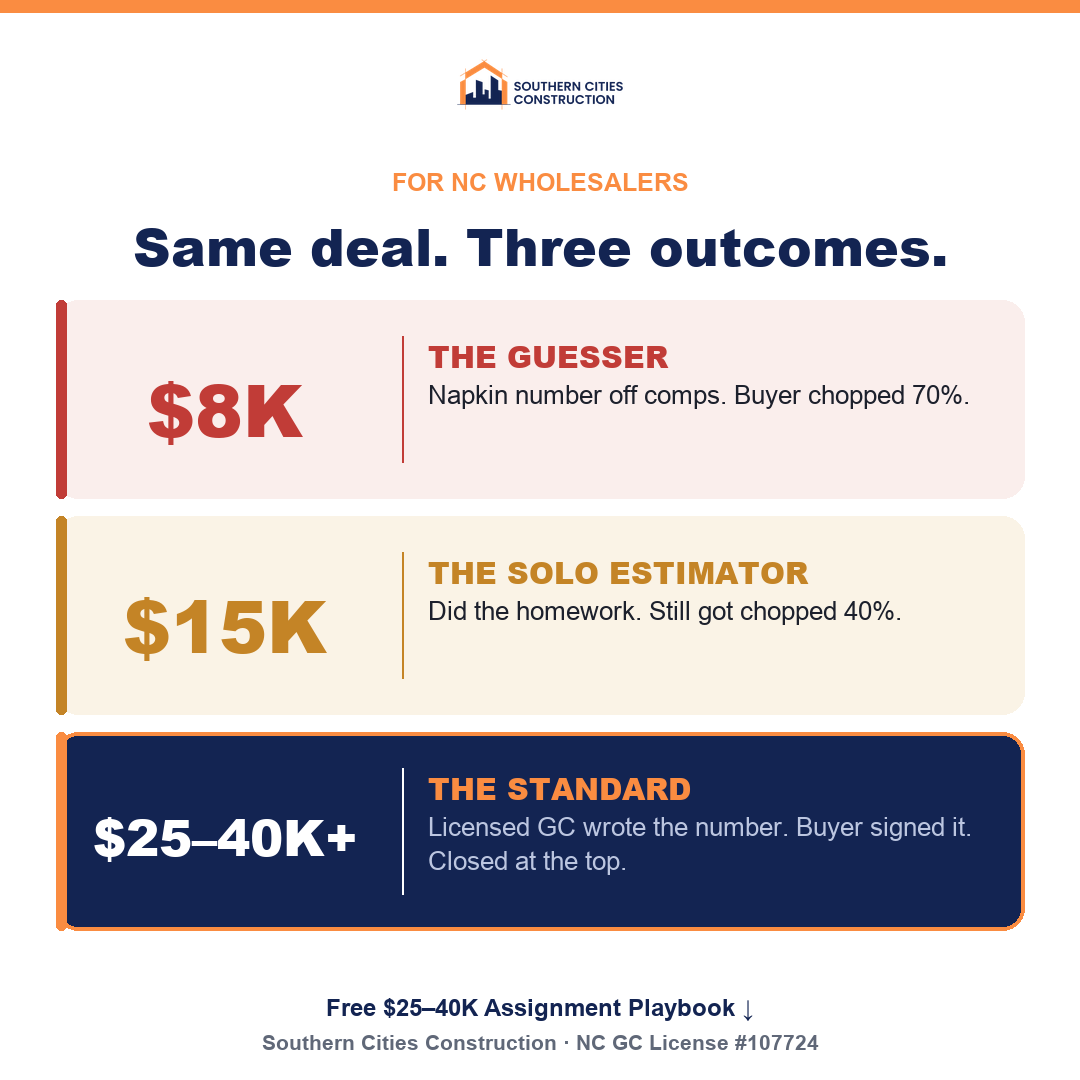
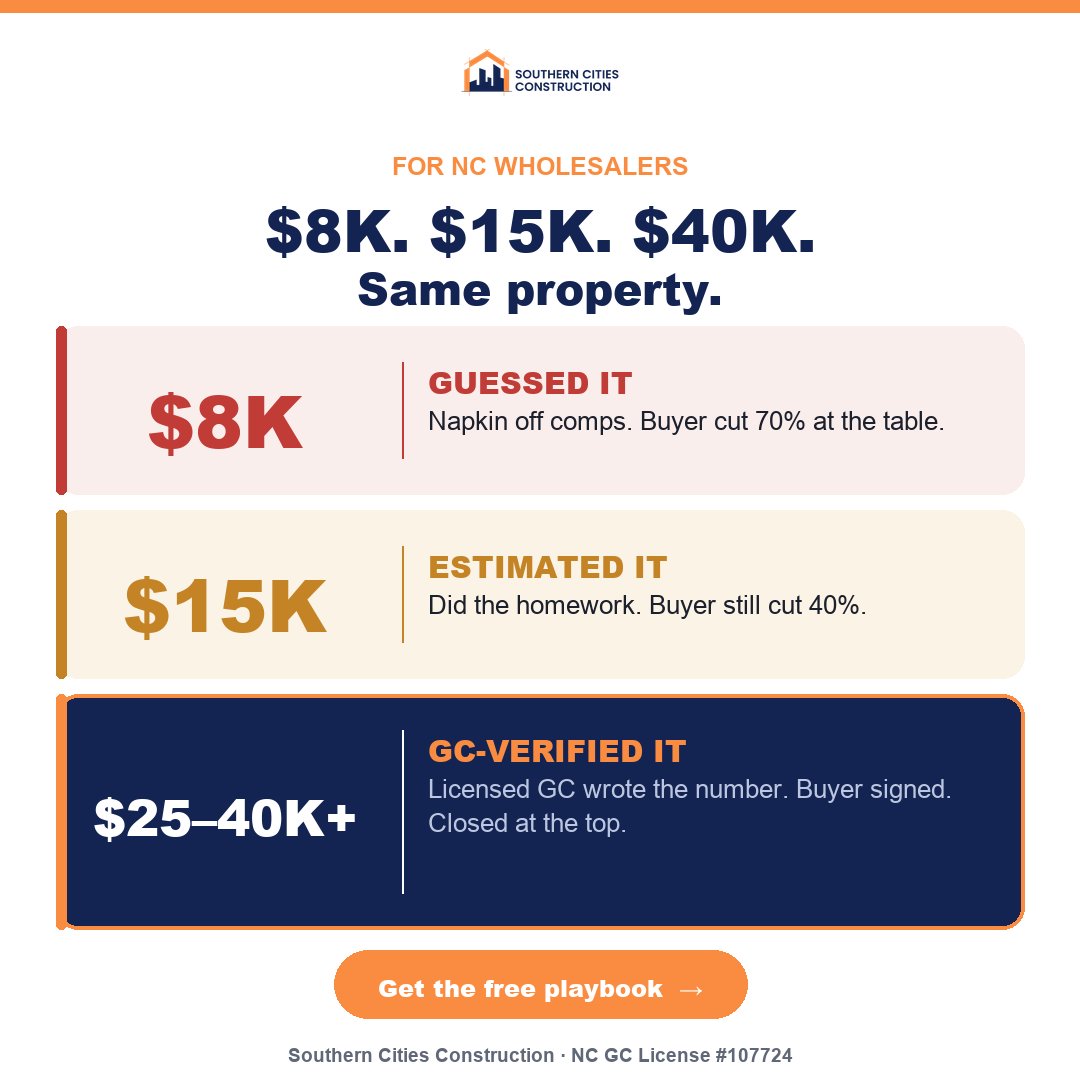
Wholesaler-tiers v3: dollar-anchored headline + pill CTA + winner dominance
- Headline: '$8K. $15K. $40K. Same property.' (specific dollars > abstract setup)
- Parallel verb labels: GUESSED IT / ESTIMATED IT / GC-VERIFIED IT
- Winner band 1.4x base height for clear visual hierarchy
- Pill-style orange CTA button (reads as 'click here', not floating arrow)
- Tighter descriptions across all tiers

diff --git a/scripts/build-wholesaler-tiers.py b/scripts/build-wholesaler-tiers.py
@@ -50,14 +50,14 @@ def wrap(d, s, f, mw):
 
 # Tier definitions — used by both renders
 TIERS = [
-    {"amt": "$8K", "label": "THE GUESSER",
-     "line": "Napkin number off comps. Buyer chopped 70%.",
+    {"amt": "$8K", "label": "GUESSED IT",
+     "line": "Napkin off comps. Buyer cut 70% at the table.",
      "bg": (250, 238, 236), "accent": RED, "amt_color": RED, "label_color": RED, "line_color": INK, "win": False},
-    {"amt": "$15K", "label": "THE SOLO ESTIMATOR",
-     "line": "Did the homework. Still got chopped 40%.",
+    {"amt": "$15K", "label": "ESTIMATED IT",
+     "line": "Did the homework. Buyer still cut 40%.",
      "bg": (250, 243, 230), "accent": AMBER, "amt_color": AMBER, "label_color": AMBER, "line_color": INK, "win": False},
-    {"amt": "$25–40K+", "label": "THE STANDARD",
-     "line": "Licensed GC wrote the number. Buyer signed it. Closed at the top.",
+    {"amt": "$25–40K+", "label": "GC-VERIFIED IT",
+     "line": "Licensed GC wrote the number. Buyer signed. Closed at the top.",
      "bg": NAVY, "accent": ORANGE, "amt_color": WHITE, "label_color": ORANGE, "line_color": MUTED_NAVY, "win": True},
 ]
 
@@ -96,8 +96,23 @@ def render_tier_band(d, t, lx0, lx1, y0, band_h):
         yy += 34
 
 
+def draw_pill_cta(d, cx, y, label, padding_x=44, padding_y=22, font_size=28):
+    """Draw an orange pill-style CTA button with white bold text."""
+    f = font(BLACK, font_size)
+    text_w = tw(d, label, f)
+    pill_w = text_w + padding_x * 2
+    pill_h = font_size + padding_y * 2
+    x0 = cx - pill_w // 2
+    y0 = y
+    x1 = x0 + pill_w
+    y1 = y0 + pill_h
+    d.rounded_rectangle([x0, y0, x1, y1], radius=pill_h // 2, fill=ORANGE)
+    d.text((cx - text_w / 2, y0 + padding_y - 2), label, font=f, fill=WHITE)
+    return y1
+
+
 def build_square():
-    """Original 1080x1080 for Feed placement."""
+    """1080x1080 for Feed placement — winner-band-dominant layout."""
     W = H = 1080
     img = Image.new("RGB", (W, H), WHITE)
     d = ImageDraw.Draw(img)
@@ -106,31 +121,39 @@ def build_square():
 
     # logo
     lg = Image.open(LOGO).convert("RGBA")
-    r = 190 / lg.width
-    lg = lg.resize((190, int(lg.height * r)), Image.LANCZOS)
-    img.paste(lg, (int((W - lg.width) / 2), 48), lg)
+    r = 180 / lg.width
+    lg = lg.resize((180, int(lg.height * r)), Image.LANCZOS)
+    img.paste(lg, (int((W - lg.width) / 2), 38), lg)
 
-    # eyebrow + headline
+    # eyebrow + headline (two-line punch)
     eb = font(BOLD, 25)
-    d.text((cx - tw(d, "FOR NC WHOLESALERS", eb) / 2, 168), "FOR NC WHOLESALERS", font=eb, fill=ORANGE)
-    fh = font(BLACK, 52)
-    d.text((cx - tw(d, "Same deal. Three outcomes.", fh) / 2, 208), "Same deal. Three outcomes.", font=fh, fill=NAVY)
+    d.text((cx - tw(d, "FOR NC WHOLESALERS", eb) / 2, 152), "FOR NC WHOLESALERS", font=eb, fill=ORANGE)
+    fh = font(BLACK, 58)
+    d.text((cx - tw(d, "$8K. $15K. $40K.", fh) / 2, 188), "$8K. $15K. $40K.", font=fh, fill=NAVY)
+    fh2 = font(BLACK, 44)
+    d.text((cx - tw(d, "Same property.", fh2) / 2, 256), "Same property.", font=fh2, fill=NAVY)
 
-    # tier bands
-    top = 300
-    band_h = 198
-    gap = 18
+    # tier bands — winner gets ~1.4x height
+    base_h = 168
+    win_h = 235
+    gap = 16
+    top = 326
     lx0, lx1 = 56, W - 56
-    for i, t in enumerate(TIERS):
-        render_tier_band(d, t, lx0, lx1, top + i * (band_h + gap), band_h)
 
-    # footer + license
-    ff = font(BOLD, 24)
-    foot = "Free $25–40K Assignment Playbook ↓"
-    d.text((cx - tw(d, foot, ff) / 2, H - 86), foot, font=ff, fill=NAVY)
-    fl2 = font(BOLD, 21)
+    y = top
+    for i, t in enumerate(TIERS):
+        h = win_h if t["win"] else base_h
+        render_tier_band(d, t, lx0, lx1, y, h)
+        y += h + gap
+
+    # CTA pill — center horizontally above license
+    cta_y = H - 130
+    draw_pill_cta(d, cx, cta_y, "Get the free playbook  →", font_size=24)
+
+    # license footer
+    fl2 = font(BOLD, 19)
     lic = "Southern Cities Construction · NC GC License #107724"
-    d.text((cx - tw(d, lic, fl2) / 2, H - 50), lic, font=fl2, fill=MUTED)
+    d.text((cx - tw(d, lic, fl2) / 2, H - 36), lic, font=fl2, fill=MUTED)
 
     img.save(os.path.join(OUT, "wholesaler-tiers.png"))
     print("built wholesaler-tiers.png")
@@ -154,26 +177,33 @@ def build_vertical():
     eb = font(BOLD, 30)
     d.text((cx - tw(d, "FOR NC WHOLESALERS", eb) / 2, 400), "FOR NC WHOLESALERS", font=eb, fill=ORANGE)
 
-    # headline — split across two lines for impact
-    fh = font(BLACK, 76)
-    d.text((cx - tw(d, "Same deal.", fh) / 2, 460), "Same deal.", font=fh, fill=NAVY)
-    d.text((cx - tw(d, "Three outcomes.", fh) / 2, 555), "Three outcomes.", font=fh, fill=NAVY)
+    # headline — punchy dollar line + setup
+    fh = font(BLACK, 84)
+    d.text((cx - tw(d, "$8K. $15K. $40K.", fh) / 2, 450), "$8K. $15K. $40K.", font=fh, fill=NAVY)
+    fh2 = font(BLACK, 62)
+    d.text((cx - tw(d, "Same property.", fh2) / 2, 555), "Same property.", font=fh2, fill=NAVY)
 
-    # tier bands — bigger, more vertical room
+    # tier bands — winner gets ~1.3x height
+    base_h = 290
+    win_h = 380
+    gap = 26
     top = 700
-    band_h = 340
-    gap = 28
     lx0, lx1 = 56, W - 56
-    for i, t in enumerate(TIERS):
-        render_tier_band(d, t, lx0, lx1, top + i * (band_h + gap), band_h)
 
-    # footer + license (above Stories bottom UI overlay)
-    ff = font(BOLD, 28)
-    foot = "Free $25–40K Assignment Playbook ↓"
-    d.text((cx - tw(d, foot, ff) / 2, H - 110), foot, font=ff, fill=NAVY)
-    fl2 = font(BOLD, 24)
+    y = top
+    for t in TIERS:
+        h = win_h if t["win"] else base_h
+        render_tier_band(d, t, lx0, lx1, y, h)
+        y += h + gap
+
+    # CTA pill button (breathing room above)
+    cta_y = H - 170
+    draw_pill_cta(d, cx, cta_y, "Get the free playbook  →", font_size=30)
+
+    # license footer
+    fl2 = font(BOLD, 22)
     lic = "Southern Cities Construction · NC GC License #107724"
-    d.text((cx - tw(d, lic, fl2) / 2, H - 60), lic, font=fl2, fill=MUTED)
+    d.text((cx - tw(d, lic, fl2) / 2, H - 50), lic, font=fl2, fill=MUTED)
 
     img.save(os.path.join(OUT, "wholesaler-tiers-vertical.png"))
     print("built wholesaler-tiers-vertical.png")
